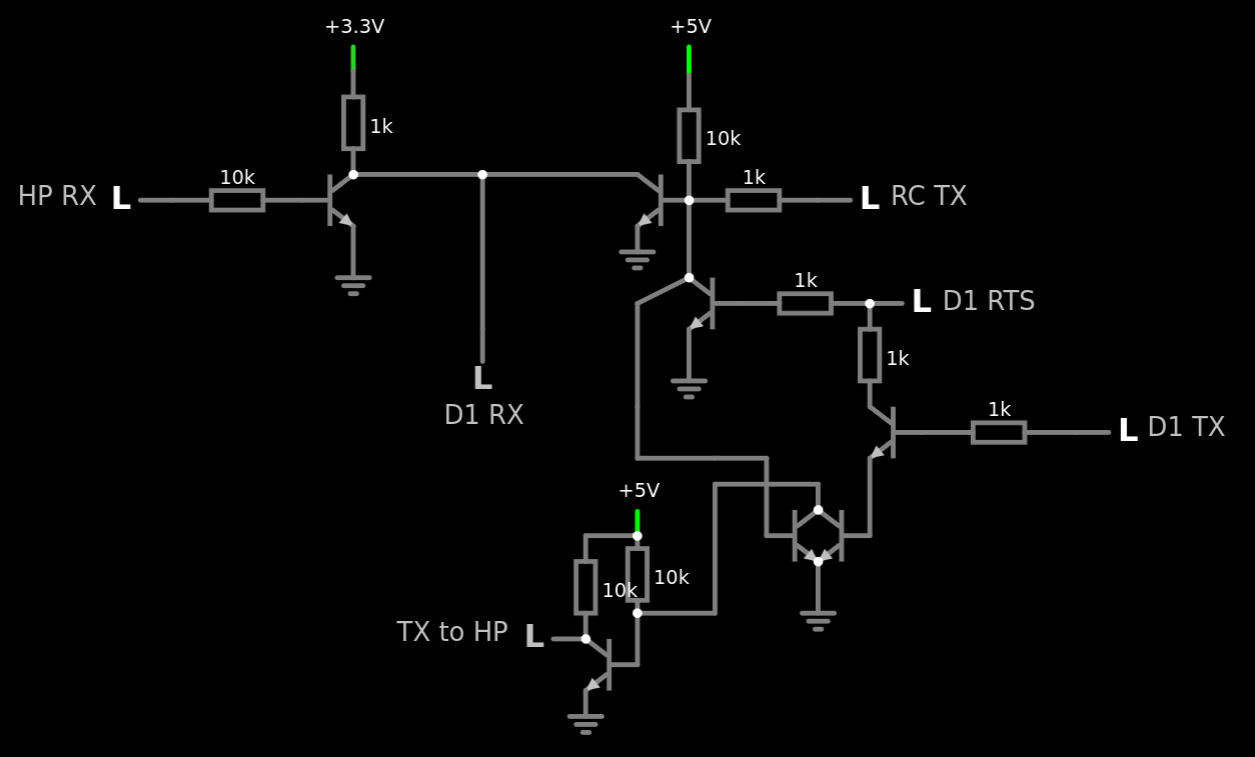
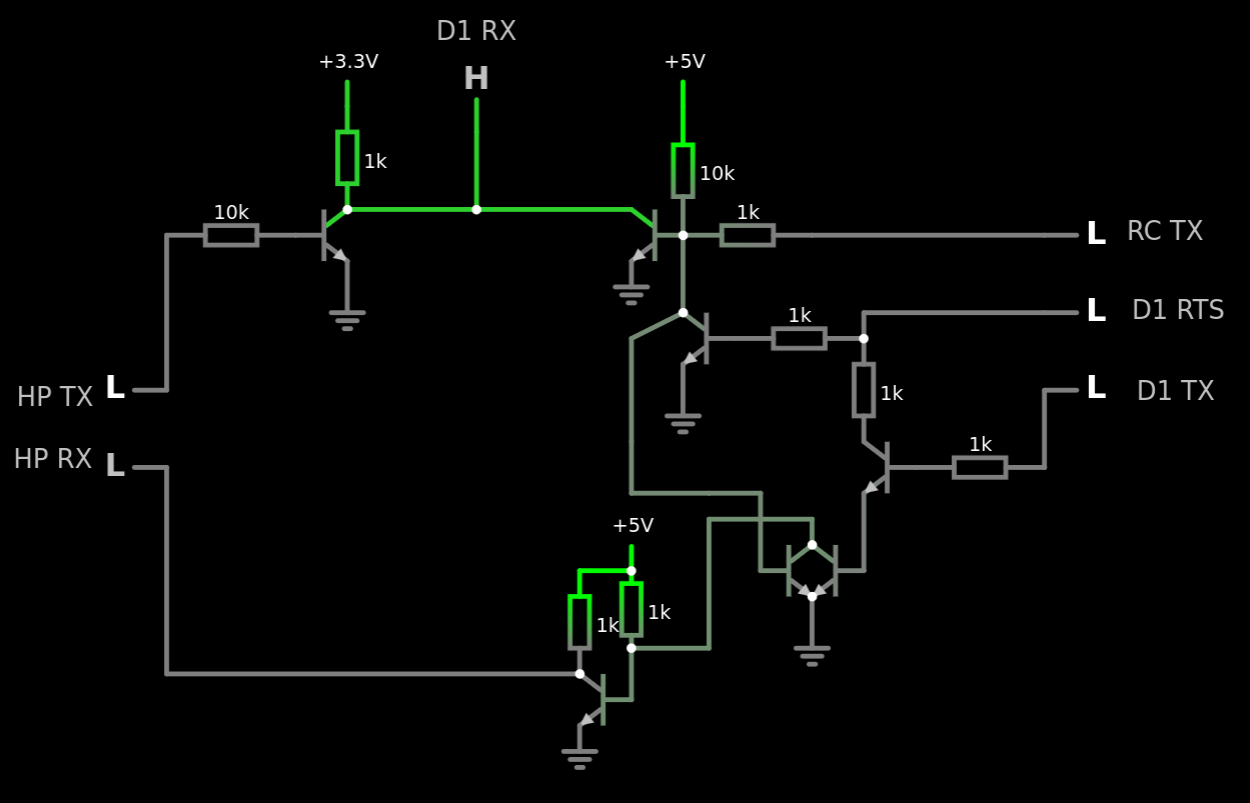
Schematic correction and readme update

Changed region(s): [[0.0, 0.0, 0.9984, 0.9723], [0.0, 0.4557, 0.1248, 0.5165], [0.9048, 0.3646, 0.9984, 0.395]]

diff --git a/README.md b/README.md
@@ -14,10 +14,10 @@ Thanks to this device, you are able to monitor heat pump states and issue your o
 Device consists of brige PCB and D1 mini.
 ![Brige schematic](images/schematic.png "schematic")
 
-I used hardware serial on pins D8/D7 and one pin for RTS from D1 Mini ESP board. In a 'normal' situation, the D1 Mini only listens to communication between the remote and the heat pump, so you can have entity updates.
-When you want to issue a state change from Home Assistant, RTS is set, blocking communication from the remote to the heat pump. The D1 Mini then sends the command and waits for confirmation.
+I used hardware serial on pins D8/D7 and one pin for RTS from a D1 Mini ESP board. In a 'normal' situation, the D1 Mini only listens to communication between the remote and the heat pump, so you can have entity updates.
+When you want to issue a state change from Home Assistant, the RTS pin is set, blocking communication from the remote to the heat pump. The D1 Mini then sends the command and waits for confirmation.
 After sending commands, it returns to the 'normal' state.
-
+The Panasonic UART protocol has a baud_rate of 960, data_bits of 8, stop_bits of 1, parity of EVEN, and is inverted. My version of the bridge device realizes inversion at the hardware level, so there is no such setting in the YAML UART configuration.
 
 # How to use
 Follow normal ESPHome steps
